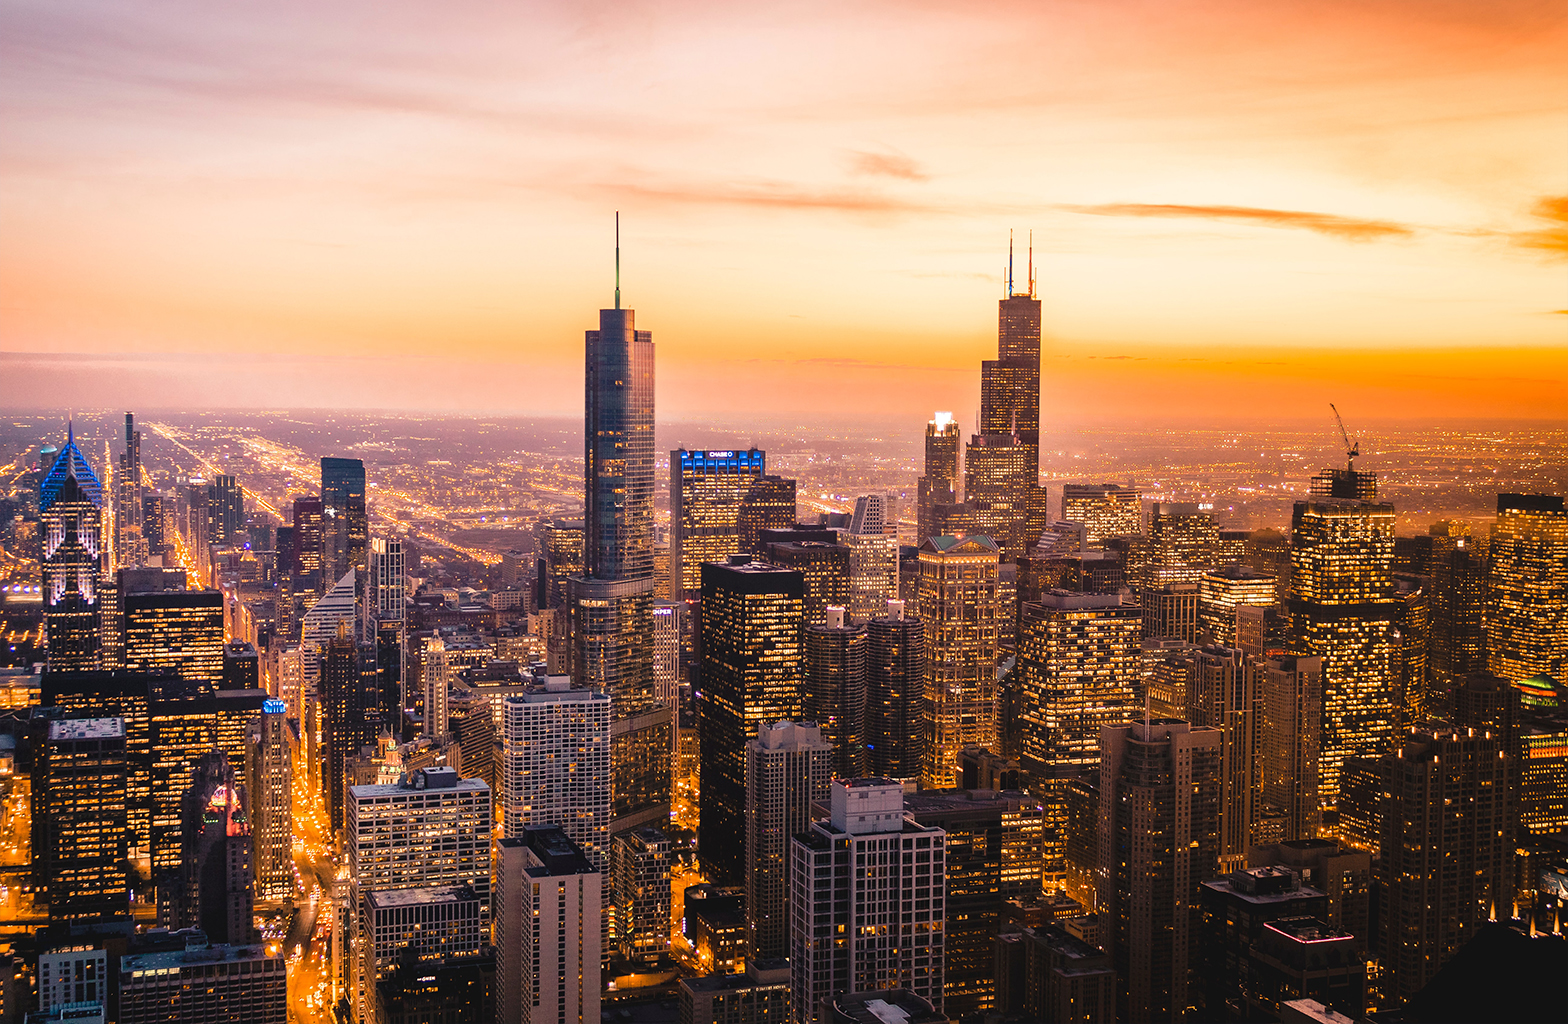
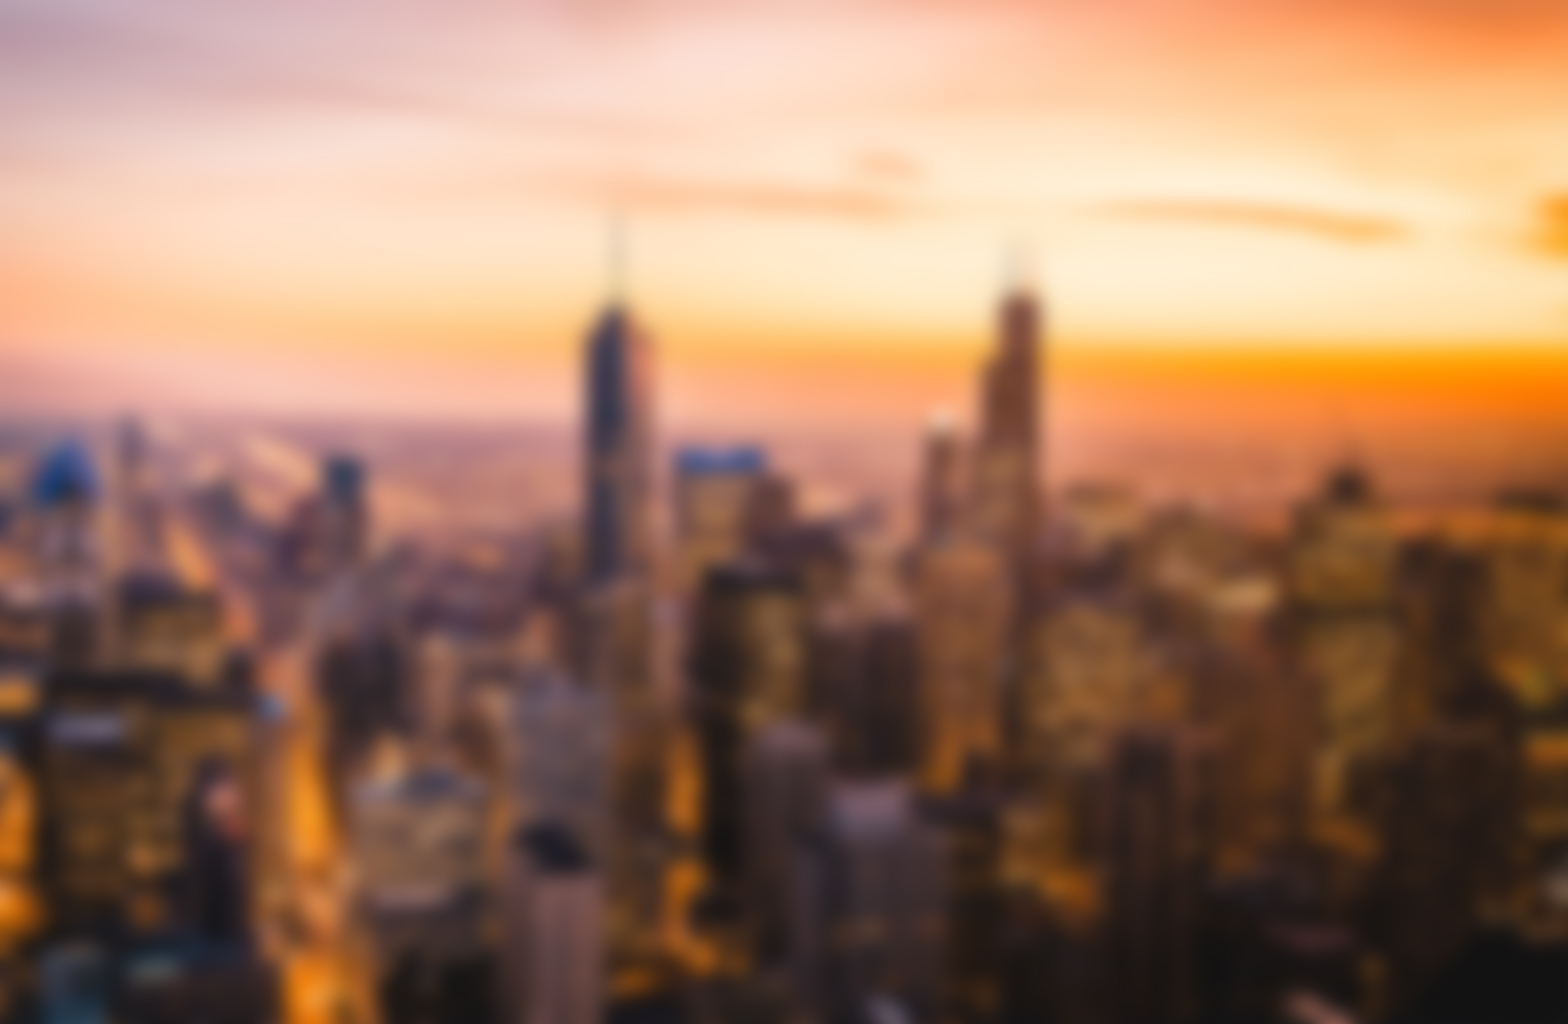
Webpage Update
Formatting as well as blurring splashpage background.

diff --git a/index.html b/index.html
@@ -33,7 +33,7 @@
 							<ul>
 								<li><a href="#about">About</a></li>
 								<li><a href="#resume">Resume</a></li>
-								<li><a href="#publications">Publications</a></li>
+								<li><a href="#works">Works</a></li>
 								<li><a href="#contact">Contact</a></li>
 								<!--<li><a href="#elements">Elements</a></li>-->
 							</ul>
@@ -48,8 +48,8 @@
 								<h2 class="major">About</h2>
 								<span class="image main"><img src="images/pic01.jpg" alt="" /></span>
 								<p>I am a Supply Chain Consultant at Deloitte, specializing in procurement and supply management. You can count on me to manage sourcing events and conducting negotiations. I can add value to your engagement by delivering hard-dollar savings and cost avoidance.</p>
-								<p>I have experience leading and implementing procurement and supply management strategies, conducting market intelligence research, negotiating pricing and contract terms, managing LTL logistics, and sourcing both direct and indirect spend. Category management expertise includes Express Mail, IT & Telecom, Records Management, and Business Process Outsourcing. My background covers many sectors including Insurance, Defense, Life Sciences, and Industrial Products & Construction.</p>
-								<p>I love giving back to the Chicagoland community. Currently, I serve as the Regional Chair for the QuestBridge Regional Alumni Club of Chicago, a chapter organization for alumni who were awarded full-ride offers or substantial financial aid to prestigous college partners. I also serve as a volunteer for PAWS Chicago, Chicago's largest no-kill humane organization. Furthermore, I am an avid gardener who helps out at a local community garden on the Chicago Park District Lakefront Trail. I have a penchant for tomatoes, basil, and kale. I am a big fan of architecture which is partially why I live in Chicago. I am into fishing as well, and I make heavy use of my ultralight fishing rod with a Daiwa Legalis LT 1000D to catch trout and more.</p>
+								<p>I have experience leading and implementing procurement and supply management strategies, conducting market intelligence research, negotiating pricing and contract terms, managing LTL logistics, and sourcing both direct and indirect spend. Category management expertise includes Express Mail, IT & Telecom, Records Management, and Business Process Outsourcing. My background covers a diverse range of sectors including Insurance, Defense, Life Sciences, and Industrial Products & Construction.</p>
+								<p>I love giving back to the Chicagoland community. Currently, I serve as the Regional Chair for the QuestBridge Regional Alumni Club of Chicago, a chapter organization for alumni awarded full ride offers or substantial financial aid to prestigious college partners. I also serve as a volunteer for PAWS Chicago, Chicago's largest no-kill humane organization. Furthermore, I am an avid gardener who helps out at a local community garden on the Chicago Park District Lakefront Trail. I have a penchant for tomatoes, basil, and kale. I am appreciative of great architecture which is partially why I live in Chicago. I am into fishing as well, and I make heavy use of my ultralight fishing rod with a Daiwa Legalis LT 1000D to catch trout and more.</p>
 							</article>
 
 						<!-- Resume -->
@@ -58,13 +58,49 @@
 								<span class="image main"><img src="images/pic02.jpg" alt="" /></span>
 								<p>Adipiscing magna sed dolor elit. Praesent eleifend dignissim arcu, at eleifend sapien imperdiet ac. Aliquam erat volutpat. Praesent urna nisi, fringila lorem et vehicula lacinia quam. Integer sollicitudin mauris nec lorem luctus ultrices.</p>
 								<p>Nullam et orci eu lorem consequat tincidunt vivamus et sagittis libero. Mauris aliquet magna magna sed nunc rhoncus pharetra. Pellentesque condimentum sem. In efficitur ligula tate urna. Maecenas laoreet massa vel lacinia pellentesque lorem ipsum dolor. Nullam et orci eu lorem consequat tincidunt. Vivamus et sagittis libero. Mauris aliquet magna magna sed nunc rhoncus amet feugiat tempus.</p>
+
+								<div id="skills">
+            					<h2 class="major">Skills</h2>
+            						<ul>
+						                <li>SAP Ariba</li>
+						                <li>Oracle Cloud</li>
+						                <li>Coupa</li>
+						                <li>Corcentric Analytics</li>
+						                <li>SpendHQ</li>
+						                <li>Exigent Chameleon</li>
+						                <li>Bloomberg</li>
+						                <li>Capital IQ</li>
+						                <li>GraphPad Prism</li>
+						                <li>SQL</li>
+						                <li>R</li>
+						                <li>MATLAB</li>
+						                <li>VBA</li>
+						                <li>Java</li>
+						                <li>Python</li>
+						                <li>HTML/CSS</li>
+						                <li>MySQL</li>
+						                <li>Microsoft Access</li>
+						                <li>Power BI</li>
+            						</ul>
+       							</div>
+
+        						<div id="languages">
+            					<h2 class="major">Languages</h2>
+						            <ul>
+						                <li>🇺🇸 English</li>
+						                <li>🇻🇳 Vietnamese</li>
+						                <li>🇪🇸 Spanish</li>
+						                <li>🇫🇷 Fench</li>
+						                <li>🇨🇳 Chinese (Coming Soon 😉)</li>
+						            </ul>
+        						</div>
 							</article>
 
-						<!-- Publications -->
-							<article id="publications">
-								<h2 class="major">Publications</h2>
+						<!-- Works -->
+							<article id="works">
+								<h2 class="major">Works</h2>
 								<span class="image main"><img src="images/pic03.jpg" alt="" /></span>
-								<p>Lorem ipsum dolor sit amet, consectetur et adipiscing elit. Praesent eleifend dignissim arcu, at eleifend sapien imperdiet ac. Aliquam erat volutpat. Praesent urna nisi, fringila lorem et vehicula lacinia quam. Integer sollicitudin mauris nec lorem luctus ultrices. Aliquam libero et malesuada fames ac ante ipsum primis in faucibus. Cras viverra ligula sit amet ex mollis mattis lorem ipsum dolor sit amet.</p>
+								<p>#Publications</p>
 							</article>
 
 						<!-- Contact -->
